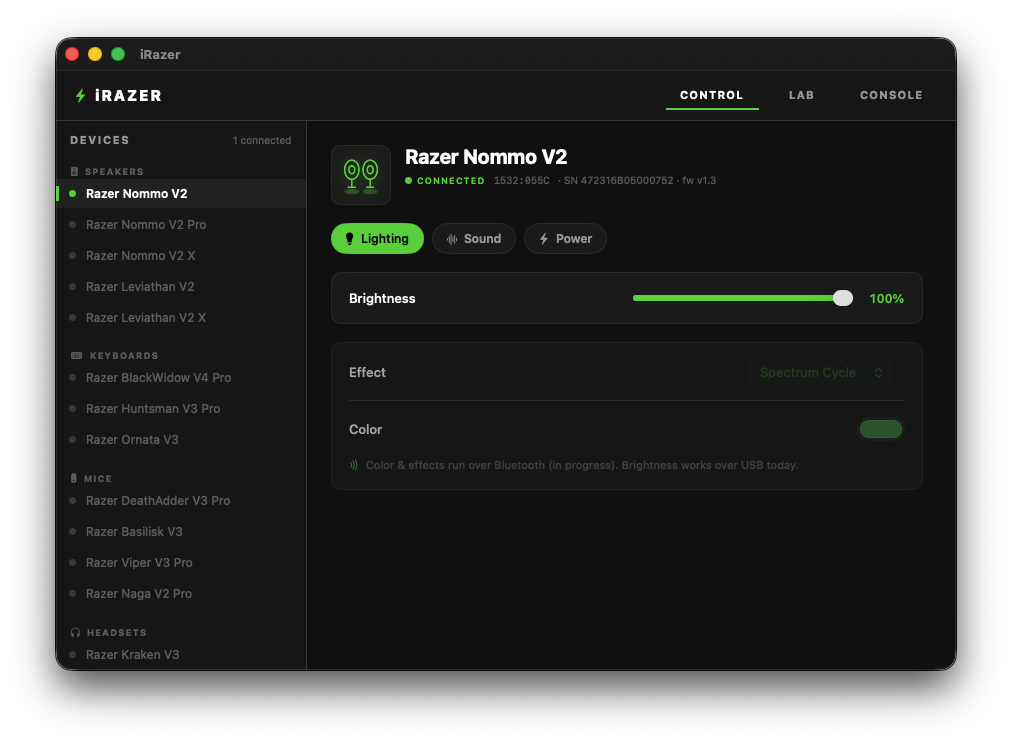
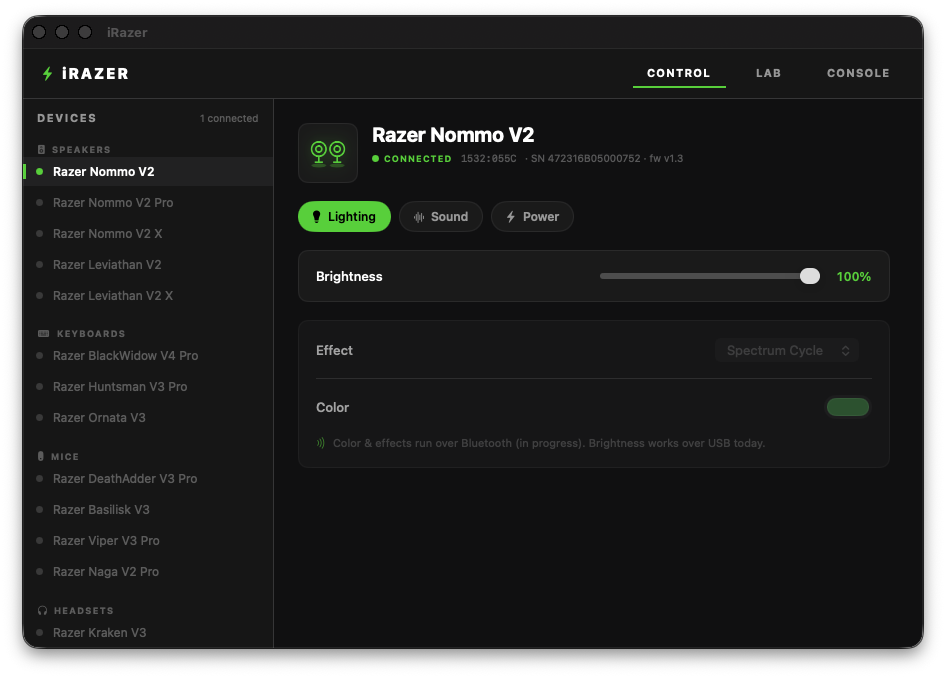
Fix DeviceGlyph oval bug: use uniform scale in the Canvas
The glyph was drawn with separate x (s/64) and y (s/48) scale factors, stretching
the round speaker circles into ovals in the app. Fit the 64x48 artwork with one
uniform scale, centered. Refresh screenshot (bump cache-bust to v4).

diff --git a/docs/index.html b/docs/index.html
@@ -11,7 +11,7 @@
 <meta property="og:title" content="iRazer — Razer Synapse alternative for macOS">
 <meta property="og:description" content="Free, open-source native macOS app to control Razer devices (RGB, EQ, volume, power) without Synapse. Apple Silicon & Intel. First device: Razer Nommo V2.">
 <meta property="og:url" content="https://hanley-tech.github.io/iRazer/">
-<meta property="og:image" content="https://hanley-tech.github.io/iRazer/assets/screenshot.png?v=3">
+<meta property="og:image" content="https://hanley-tech.github.io/iRazer/assets/screenshot.png?v=4">
 <meta name="twitter:card" content="summary_large_image">
 
 <script type="application/ld+json">
@@ -25,7 +25,7 @@
   "description": "Free, open-source native macOS app that controls Razer devices — RGB lighting, EQ, volume, brightness, and power — without Razer Synapse. First supported device: Razer Nommo V2.",
   "url": "https://github.com/hanley-tech/iRazer",
   "downloadUrl": "https://github.com/hanley-tech/iRazer/releases",
-  "screenshot": "https://hanley-tech.github.io/iRazer/assets/screenshot.png?v=3",
+  "screenshot": "https://hanley-tech.github.io/iRazer/assets/screenshot.png?v=4",
   "license": "https://opensource.org/licenses/MIT",
   "isAccessibleForFree": true,
   "offers": { "@type": "Offer", "price": "0", "priceCurrency": "USD" },
@@ -160,7 +160,7 @@
     </div>
     <div class="sub">Free &amp; MIT-licensed · no account · no daemon · lives in your menu bar</div>
     <div class="chroma"></div>
-    <div class="shot"><img src="assets/screenshot.png?v=3" alt="iRazer app controlling a Razer Nommo V2 on macOS — device dashboard with lighting, EQ and power"></div>
+    <div class="shot"><img src="assets/screenshot.png?v=4" alt="iRazer app controlling a Razer Nommo V2 on macOS — device dashboard with lighting, EQ and power"></div>
   </div>
 </header>
 

diff --git a/Sources/iRazer/DeviceGlyph.swift b/Sources/iRazer/DeviceGlyph.swift
@@ -10,10 +10,12 @@ struct DeviceGlyph: View {
 
     var body: some View {
         Canvas { ctx, size in
-            let s = min(size.width, size.height)
-            let ox = (size.width - s) / 2, oy = (size.height - s) / 2
-            // work in a 64x48 space, scaled to fit
-            let sx = s / 64, sy = s / 48
+            // Fit the 64x48 artwork with a SINGLE uniform scale so circles stay
+            // circular (non-uniform x/y scaling was turning the round speakers oval).
+            let scale = min(size.width / 64, size.height / 48)
+            let ox = (size.width - 64 * scale) / 2
+            let oy = (size.height - 48 * scale) / 2
+            let sx = scale, sy = scale
             func P(_ x: Double, _ y: Double) -> CGPoint { CGPoint(x: ox + x * sx, y: oy + y * sy) }
             let stroke = StrokeStyle(lineWidth: 2.4 * sx, lineCap: .round, lineJoin: .round)
             let ink = GraphicsContext.Shading.color(color)

diff --git a/README.md b/README.md
@@ -19,7 +19,7 @@ brightness, and power — in a clean native app. First supported device: the **R
 
 <br>
 
-<img src="docs/assets/screenshot.png?v=3" alt="iRazer controlling a Razer Nommo V2 on macOS — device dashboard with lighting, EQ, and power" width="820">
+<img src="docs/assets/screenshot.png?v=4" alt="iRazer controlling a Razer Nommo V2 on macOS — device dashboard with lighting, EQ, and power" width="820">
 
 <sub>*Not affiliated with, authorized, or endorsed by Razer Inc. "Razer", "Synapse", and
 "Chroma" are trademarks of Razer Inc., used here only to describe compatibility.*</sub>
